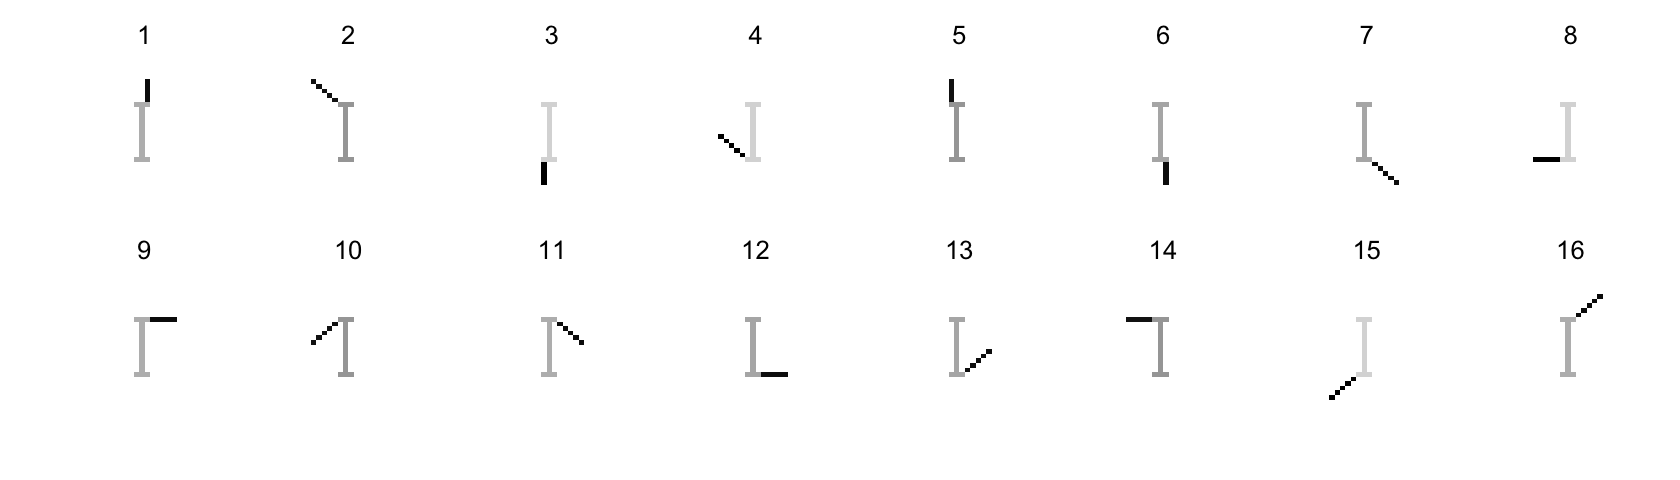
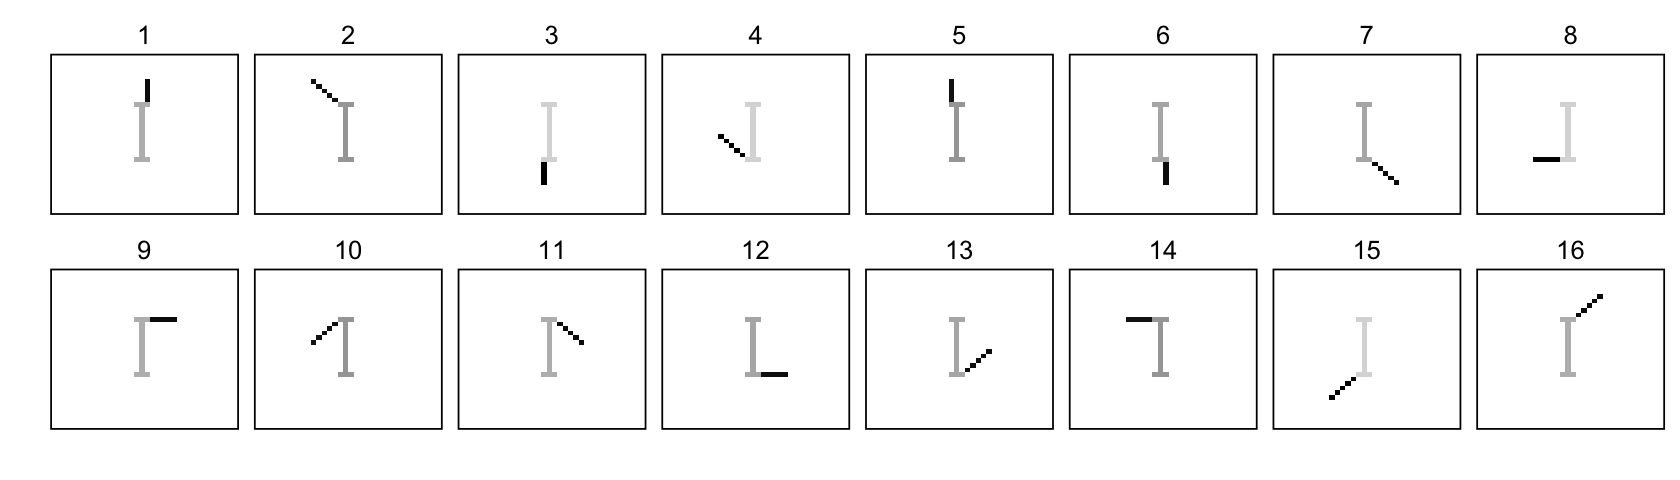
Added some explanatory text to the swimmer_more analysis.

diff --git a/docs/swimmer_more.html b/docs/swimmer_more.html
@@ -301,7 +301,7 @@ class="glyphicon glyphicon-ok text-success" aria-hidden="true"></span>
 <div class="tab-content">
 <div id="summary" class="tab-pane fade in active">
 <p>
-<strong>Last updated:</strong> 2023-12-31
+<strong>Last updated:</strong> 2024-01-02
 </p>
 <p>
 <strong>Checks:</strong> <span
@@ -432,15 +432,15 @@ project makes it easier to run your code on other machines.</p>
 <div class="panel panel-default">
 <div class="panel-heading">
 <p class="panel-title">
-<a data-toggle="collapse" data-parent="#workflowr-checks" href="#strongRepositoryversionstrongahrefhttpsgithubcomwillwerscheidebnmfpapertreeea1c781c6d7a1b65cc8fae97d99d4cdc154fb9cbtargetblankea1c781a">
+<a data-toggle="collapse" data-parent="#workflowr-checks" href="#strongRepositoryversionstrongahrefhttpsgithubcomwillwerscheidebnmfpapertreec196d8f2a690398020eeb4047cffbab27fdbdc88targetblankc196d8fa">
 <span class="glyphicon glyphicon-ok text-success"
 aria-hidden="true"></span> <strong>Repository version:</strong>
-<a href="https://github.com/willwerscheid/ebnmf-paper/tree/ea1c781c6d7a1b65cc8fae97d99d4cdc154fb9cb" target="_blank">ea1c781</a>
+<a href="https://github.com/willwerscheid/ebnmf-paper/tree/c196d8f2a690398020eeb4047cffbab27fdbdc88" target="_blank">c196d8f</a>
 </a>
 </p>
 </div>
 <div
[2 lines of base64/hex data omitted]
 class="panel-collapse collapse">
 <div class="panel-body">
 <p>
@@ -450,7 +450,7 @@ reproducibility.
 </p>
 <p>
 The results in this page were generated with repository version
-<a href="https://github.com/willwerscheid/ebnmf-paper/tree/ea1c781c6d7a1b65cc8fae97d99d4cdc154fb9cb" target="_blank">ea1c781</a>.
+<a href="https://github.com/willwerscheid/ebnmf-paper/tree/c196d8f2a690398020eeb4047cffbab27fdbdc88" target="_blank">c196d8f</a>.
 See the <em>Past versions</em> tab to see a history of the changes made
 to the R Markdown and HTML files.
 </p>
@@ -464,8 +464,8 @@ depends on. Below is the status of the Git repository when the results
 were generated:
 </p>
 <pre><code>
-Untracked files:
-    Untracked:  scripts/#swimmers_more.R#
+Unstaged changes:
+    Modified:   scripts/swimmers_more.R
 
 </code></pre>
 <p>
@@ -511,6 +511,74 @@ Message
 </tr>
 </thead>
 <tbody>
+<tr>
+<td>
+Rmd
+</td>
+<td>
+<a href="https://github.com/willwerscheid/ebnmf-paper/blob/c196d8f2a690398020eeb4047cffbab27fdbdc88/analysis/swimmer_more.Rmd" target="_blank">c196d8f</a>
+</td>
+<td>
+Peter Carbonetto
+</td>
+<td>
+2024-01-02
+</td>
+<td>
+workflowr::wflow_publish("analysis/swimmer_more.Rmd", verbose = TRUE)
+</td>
+</tr>
+<tr>
+<td>
+Rmd
+</td>
+<td>
+<a href="https://github.com/willwerscheid/ebnmf-paper/blob/2d6bf15f934c369e770554ea809a1cddefd11ed1/analysis/swimmer_more.Rmd" target="_blank">2d6bf15</a>
+</td>
+<td>
+Peter Carbonetto
+</td>
+<td>
+2024-01-01
+</td>
+<td>
+Added boxes to panels in plot_images().
+</td>
+</tr>
+<tr>
+<td>
+Rmd
+</td>
+<td>
+<a href="https://github.com/willwerscheid/ebnmf-paper/blob/4aed4611c6bedc60e60ac8d6f78aead7cb5b934d/analysis/swimmer_more.Rmd" target="_blank">4aed461</a>
+</td>
+<td>
+Peter Carbonetto
+</td>
+<td>
+2024-01-01
+</td>
+<td>
+Working on adding variants of flash to the swimmer_more analysis.
+</td>
+</tr>
+<tr>
+<td>
+html
+</td>
+<td>
+<a href="https://rawcdn.githack.com/willwerscheid/ebnmf-paper/efe3bc97bf93a98dc62b3bc74197680bfa86a203/docs/swimmer_more.html" target="_blank">efe3bc9</a>
+</td>
+<td>
+Peter Carbonetto
+</td>
+<td>
+2023-12-31
+</td>
+<td>
+Added ‘default’ flash result to swimmer_more analysis.
+</td>
+</tr>
 <tr>
 <td>
 Rmd
@@ -688,8 +756,10 @@ workflowr::wflow_publish("index.Rmd")
 </div>
 </div>
 </div>
-<p>ADD TEXT HERE.</p>
-<p>First load the packages and some custom functions needed for the
+<p>This workflowr page contains some additional explorations of NMF
+methods (and the EBNMF methods implemented in flashier) for learning
+parts from the swimmer data set.</p>
+<p>First, load the packages and some custom functions needed for the
 analysis below.</p>
 <pre class="r"><code>library(R.matlab)
 library(tibble)
@@ -820,14 +890,109 @@ mean(sparse_nmf$sp)
 # [1] 0.9124888
 # [1] 0.9501749</code></pre>
 <p>Let’s now compare the NMF decompositions to a decomposition-by-parts
-obtained by running flashier. Remarkably, running flash with the
-point-exponential prior gets the right result, automatically splitting
-the torso and limb positions correctly into 17 factors (and even though
-we did not tell flashier that we wanted exactly 17 factors):</p>
-<pre class="r"><code>fl &lt;- flash(Y,ebnm_fn = ebnm_point_exponential,
-            backfit = TRUE,var_type = 0)
-plot_images(ldf(fl)$L,nrow = 3,ncol = 8)</code></pre>
+obtained by running flashier with sparse, non-negative priors
+(<code>ebnm_point_exponential</code>). Remarkably, running flash with
+the point-exponential prior gets the right result, automatically
+splitting the torso and limb positions correctly into 17 factors (and
+even though we did not tell flashier that we wanted exactly 17
+factors):</p>
+<pre class="r"><code>fit1 &lt;- flash(Y,ebnm_fn = ebnm_point_exponential,
+              backfit = TRUE,var_type = 0)
+plot_images(ldf(fit1)$L,nrow = 3,ncol = 8)</code></pre>
 <p><img src="figure/swimmer_more.Rmd/flash-1.png" width="840" style="display: block; margin: auto;" /></p>
+<p>
+<button type="button" class="btn btn-default btn-xs btn-workflowr btn-workflowr-fig" data-toggle="collapse" data-target="#fig-flash-1">
+Past versions of flash-1.png
+</button>
+</p>
+<div id="fig-flash-1" class="collapse">
+<div class="table-responsive">
+<table class="table table-condensed table-hover">
+<thead>
+<tr>
+<th>
+Version
+</th>
+<th>
+Author
+</th>
+<th>
+Date
+</th>
+</tr>
+</thead>
+<tbody>
+<tr>
+<td>
+<a href="https://github.com/willwerscheid/ebnmf-paper/blob/efe3bc97bf93a98dc62b3bc74197680bfa86a203/docs/figure/swimmer_more.Rmd/flash-1.png" target="_blank">efe3bc9</a>
+</td>
+<td>
+Peter Carbonetto
+</td>
+<td>
+2023-12-31
+</td>
+</tr>
+</tbody>
+</table>
+</div>
+</div>
+<p>Let’s dig into this result a bit deeper. By default, flashier
+initializes the factors in a “greedy” way, which is different from the
+more typical random initialization in NMF (indeed, <a
+href="https://github.com/willwerscheid/ebnmf-paper/blob/master/matlab/sparseNMF.m">SparseNMF.m</a>
+has a random initialization by default). Also, let’s see what happens
+when we don’t adapt the prior, and instead we use a “flat” prior (here,
+an exponential prior with large scale). Remarkably, flashier still does
+pretty well in recovering the parts, although not quite as well as
+flashier with the greedy initialization and the adapted priors:</p>
+<pre class="r"><code>set.seed(1)
+n &lt;- nrow(Y)
+m &lt;- ncol(Y)
+k &lt;- 17
+g &lt;- ebnm_point_exponential(x = c(rep(1,100)))
+g$fitted_g$pi &lt;- c(0.0001,0.9999)
+ebnm_g &lt;- flash_ebnm(prior_family = &quot;point_exponential&quot;,
+                     fix_g = TRUE,g_init = g)
+fit2 &lt;- flash_init(Y,var_type = 0)
+fit2 &lt;- flash_factors_init(fit2,
+                           list(matrix(runif(n*k),n,k),
+                                matrix(runif(m*k),m,k)),
+                           ebnm_g)
+fit2 &lt;- flash_backfit(fit2)
+plot_images(ldf(fit2)$L,nrow = 3,ncol = 8)</code></pre>
+<p><img src="figure/swimmer_more.Rmd/flash-flat-1.png" width="840" style="display: block; margin: auto;" /></p>
+<p>Unfortunately, random initialization with an adaptive prior does not
+work well at all, and I’m not sure why:</p>
+<pre class="r"><code>set.seed(1)
+fit3 &lt;- flash_init(Y,var_type = 0)
+fit3 &lt;- flash_factors_init(fit3,
+                           list(matrix(runif(n*k),n,k),
+                                matrix(runif(m*k),m,k)),
+                           ebnm_point_exponential)
+fit3 &lt;- flash_backfit(fit3)
+plot_images(ldf(fit3)$L,nrow = 3,ncol = 8)</code></pre>
+<p><img src="figure/swimmer_more.Rmd/flash-adapt-rand-init-1.png" width="840" style="display: block; margin: auto;" /></p>
+<pre><code># Backfitting 17 factors (tolerance: 3.91e-03)...
+#   --Estimate of factor 2 is numerically zero!
+#   --Estimate of factor 12 is numerically zero!
+#   --Estimate of factor 13 is numerically zero!
+#   --Estimate of factor 14 is numerically zero!
+#   --Estimate of factor 15 is numerically zero!
+#   --Estimate of factor 9 is numerically zero!
+#   --Estimate of factor 17 is numerically zero!
+#   --Estimate of factor 9 is numerically zero!
+#   --Estimate of factor 17 is numerically zero!
+#   Difference between iterations is within 1.0e+04...
+#   Difference between iterations is within 1.0e+03...
+#   Difference between iterations is within 1.0e+02...
+#   Difference between iterations is within 1.0e+01...
+#   Difference between iterations is within 1.0e+00...
+#   Difference between iterations is within 1.0e-01...
+#   Difference between iterations is within 1.0e-02...
+#   Difference between iterations is within 1.0e-03...
+# Wrapping up...
+# Done.</code></pre>
 <br>
 <p>
 <button type="button" class="btn btn-default btn-workflowr btn-workflowr-sessioninfo" data-toggle="collapse" data-target="#workflowr-sessioninfo" style="display: block;">
